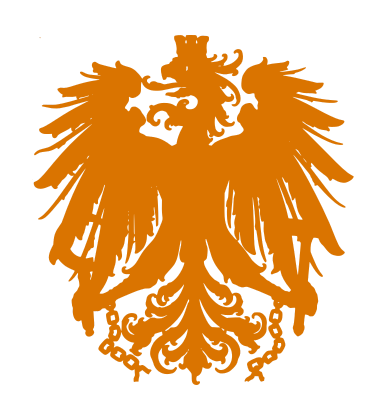
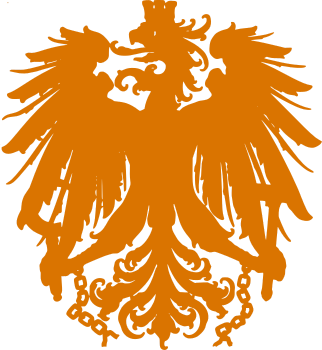
splash screenn styles with mobile

diff --git a/components/SplashScreen/splashScreen.module.css b/components/SplashScreen/splashScreen.module.css
@@ -6,6 +6,7 @@
   flex-direction: column;
   justify-content: space-around;
   align-items: center;
+  text-align: center;
   color: rgb(218, 116, 0);
   font-family: 'Baskerville', serif;
 }
@@ -17,24 +18,46 @@
   line-height: 1.2;
 }
 .title {
-  font-size: 4rem;
+  font-size: 2rem;
 }
 .subTitle {
-  font-size: 2rem;
+  font-size: 1.6rem;
   font-style: italic;
-  text-align: center;
 }
 
 .imgEagle {
-  height: 50vh;
+  height: 15vh;
   max-height: 300px;
-  width: auto;
   margin-bottom: 1rem;
 }
 
+@media screen and (min-width: 420px) {
+  .title {
+    font-size: 3rem;
+  }
+  .subTitle {
+    font-size: 1.8rem;
+  }
+  .imgEagle {
+    height: 25vh;
+  }
+}
+@media screen and (min-width: 813px) {
+  .title {
+    font-size: 4rem;
+  }
+  .subTitle {
+    font-size: 2rem;
+  }
+  .imgEagle {
+    height: 30vh;
+  }  
+}
+
+
 .languageList {
   display: flex;
-  align-items: center;
+  max-width: 90vw;
 }
 
 .languageList li + li {
